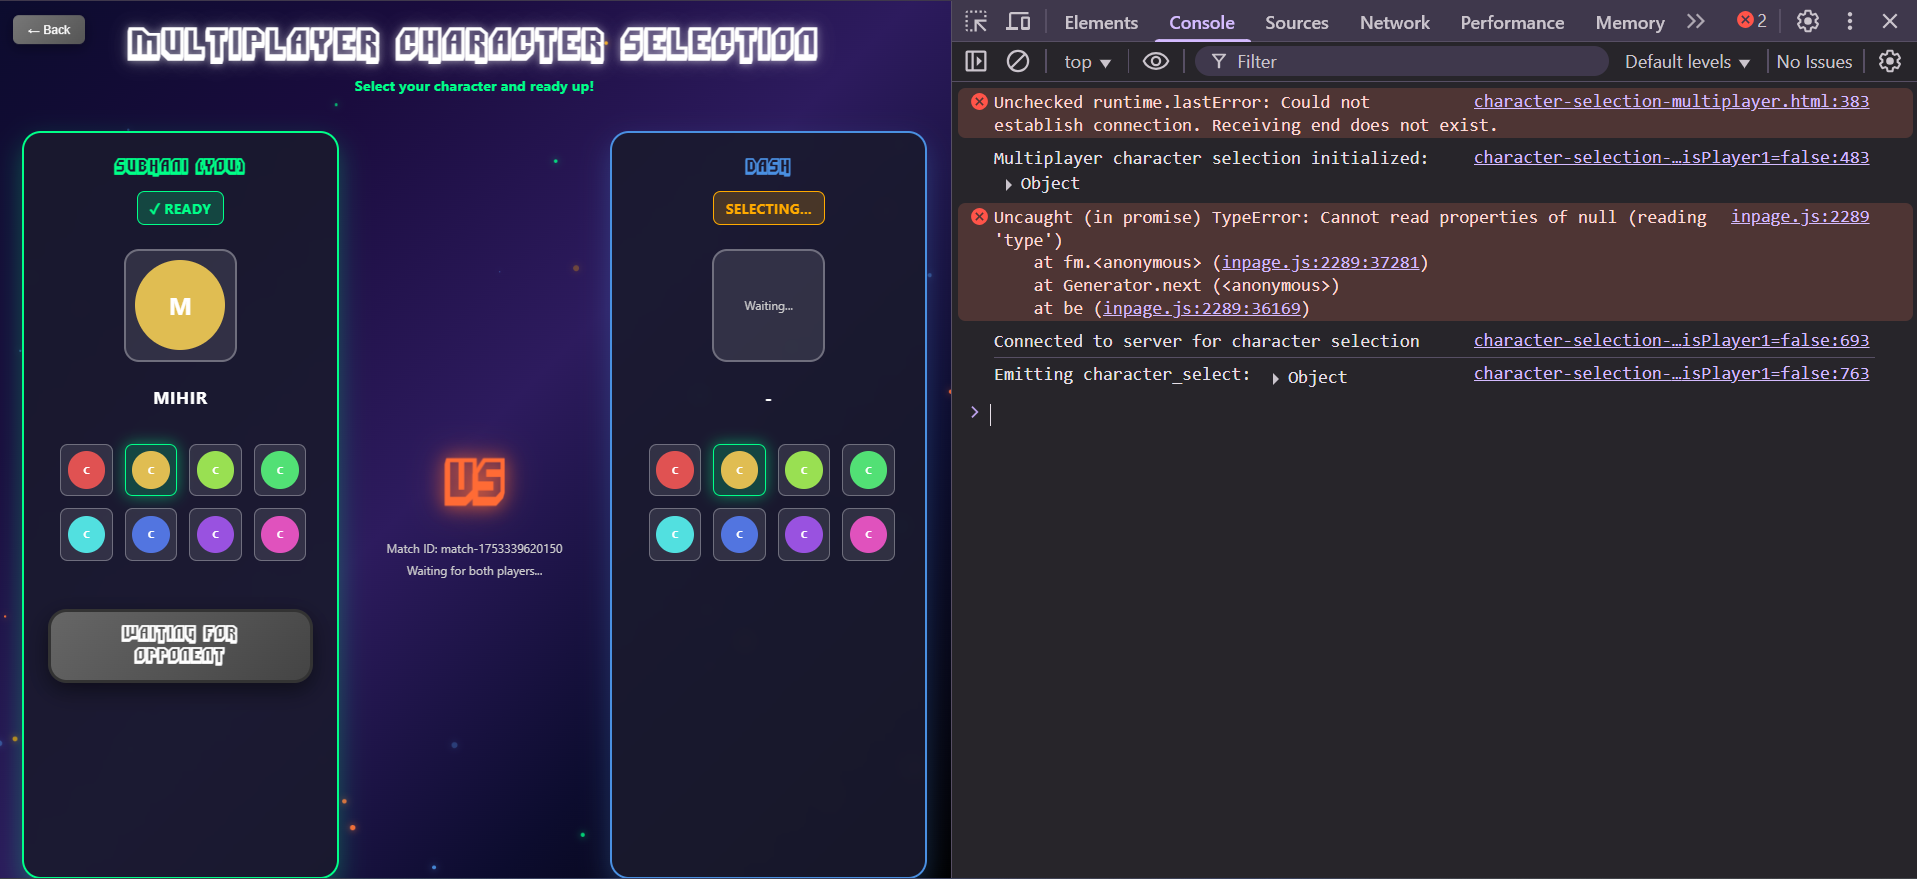
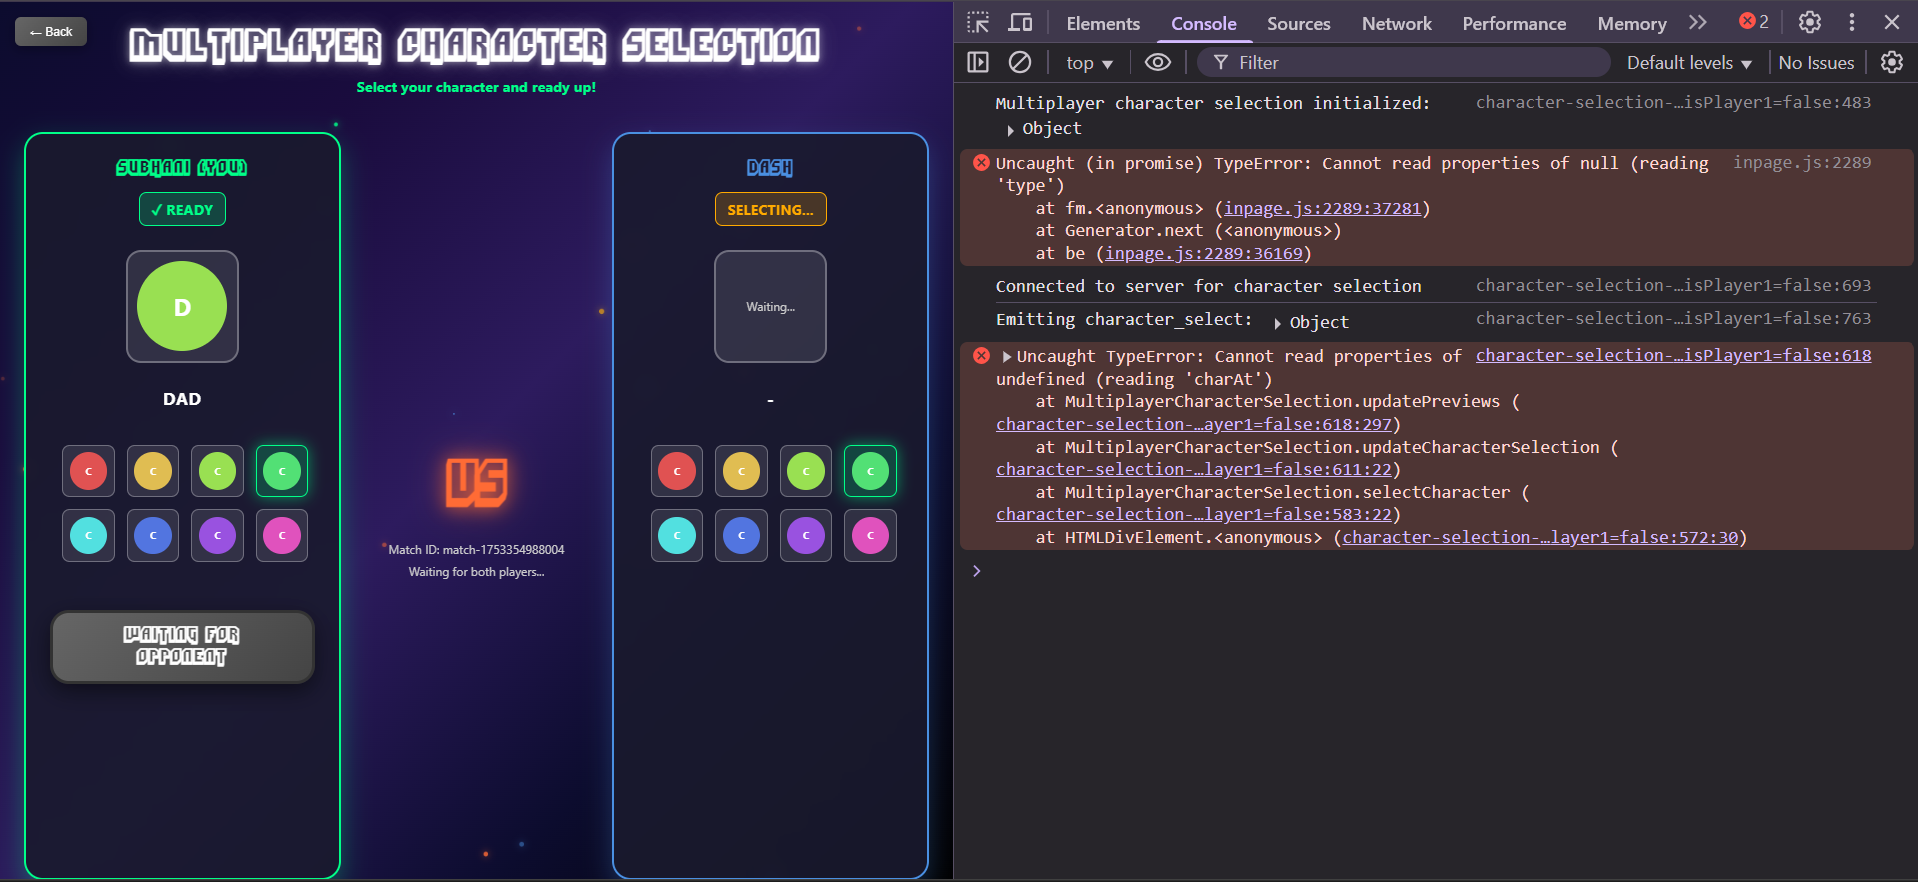
Fix character selection synchronization issues
- Add socket.join(roomId) to properly join Socket.IO rooms for broadcasting
- Fix CHARACTER_HEADS undefined errors with proper window.CONFIG checks
- Ensure character selection events can broadcast to room members
- Add defensive checks for CONFIG array access to prevent charAt errors

🤖 Generated with [Claude Code](https://claude.ai/code)

diff --git a/head-soccer-js/character-selection-multiplayer.html b/head-soccer-js/character-selection-multiplayer.html
@@ -524,8 +524,8 @@
                 this.opponentGrid.innerHTML = '';
                 
                 // Create character items for both grids
-                if (window.CONFIG && CONFIG.CHARACTER_HEADS) {
-                    CONFIG.CHARACTER_HEADS.forEach((headName, index) => {
+                if (window.CONFIG && window.CONFIG.CHARACTER_HEADS) {
+                    window.CONFIG.CHARACTER_HEADS.forEach((headName, index) => {
                         // Current player grid
                         const currentItem = this.createCharacterItem(headName, index, true);
                         this.currentPlayerGrid.appendChild(currentItem);
@@ -614,7 +614,9 @@
             updatePreviews() {
                 // Update current player preview
                 if (this.currentPlayerSelectedHead !== null) {
-                    const headName = CONFIG.CHARACTER_HEADS ? CONFIG.CHARACTER_HEADS[this.currentPlayerSelectedHead] : `Character${this.currentPlayerSelectedHead + 1}`;
+                    const headName = (window.CONFIG && window.CONFIG.CHARACTER_HEADS && window.CONFIG.CHARACTER_HEADS[this.currentPlayerSelectedHead]) 
+                        ? window.CONFIG.CHARACTER_HEADS[this.currentPlayerSelectedHead] 
+                        : `Character${this.currentPlayerSelectedHead + 1}`;
                     this.currentPlayerPreview.innerHTML = `<div style="width: 120px; height: 120px; background: hsl(${this.currentPlayerSelectedHead * 45}, 70%, 60%); border-radius: 50%; display: flex; align-items: center; justify-content: center; font-size: 2rem; font-weight: bold;">${headName.charAt(0)}</div>`;
                     this.currentPlayerCharacterName.textContent = headName;
                 } else {
@@ -624,7 +626,9 @@
                 
                 // Update opponent preview
                 if (this.opponentSelectedHead !== null) {
-                    const headName = CONFIG.CHARACTER_HEADS ? CONFIG.CHARACTER_HEADS[this.opponentSelectedHead] : `Character${this.opponentSelectedHead + 1}`;
+                    const headName = (window.CONFIG && window.CONFIG.CHARACTER_HEADS && window.CONFIG.CHARACTER_HEADS[this.opponentSelectedHead]) 
+                        ? window.CONFIG.CHARACTER_HEADS[this.opponentSelectedHead] 
+                        : `Character${this.opponentSelectedHead + 1}`;
                     this.opponentPreview.innerHTML = `<div style="width: 120px; height: 120px; background: hsl(${this.opponentSelectedHead * 45}, 70%, 60%); border-radius: 50%; display: flex; align-items: center; justify-content: center; font-size: 2rem; font-weight: bold;">${headName.charAt(0)}</div>`;
                     this.opponentCharacterName.textContent = headName;
                 } else {

diff --git a/head-soccer-js/backend/websocket/socketHandler.js b/head-soccer-js/backend/websocket/socketHandler.js
@@ -1608,6 +1608,7 @@ class SocketHandler extends EventEmitter {
       
       // Join the character selection room
       const roomId = `character_selection_${matchId}`;
+      socket.join(roomId); // IMPORTANT: Actually join the Socket.IO room
       connection.roomId = roomId;
       
       // Update connection state
